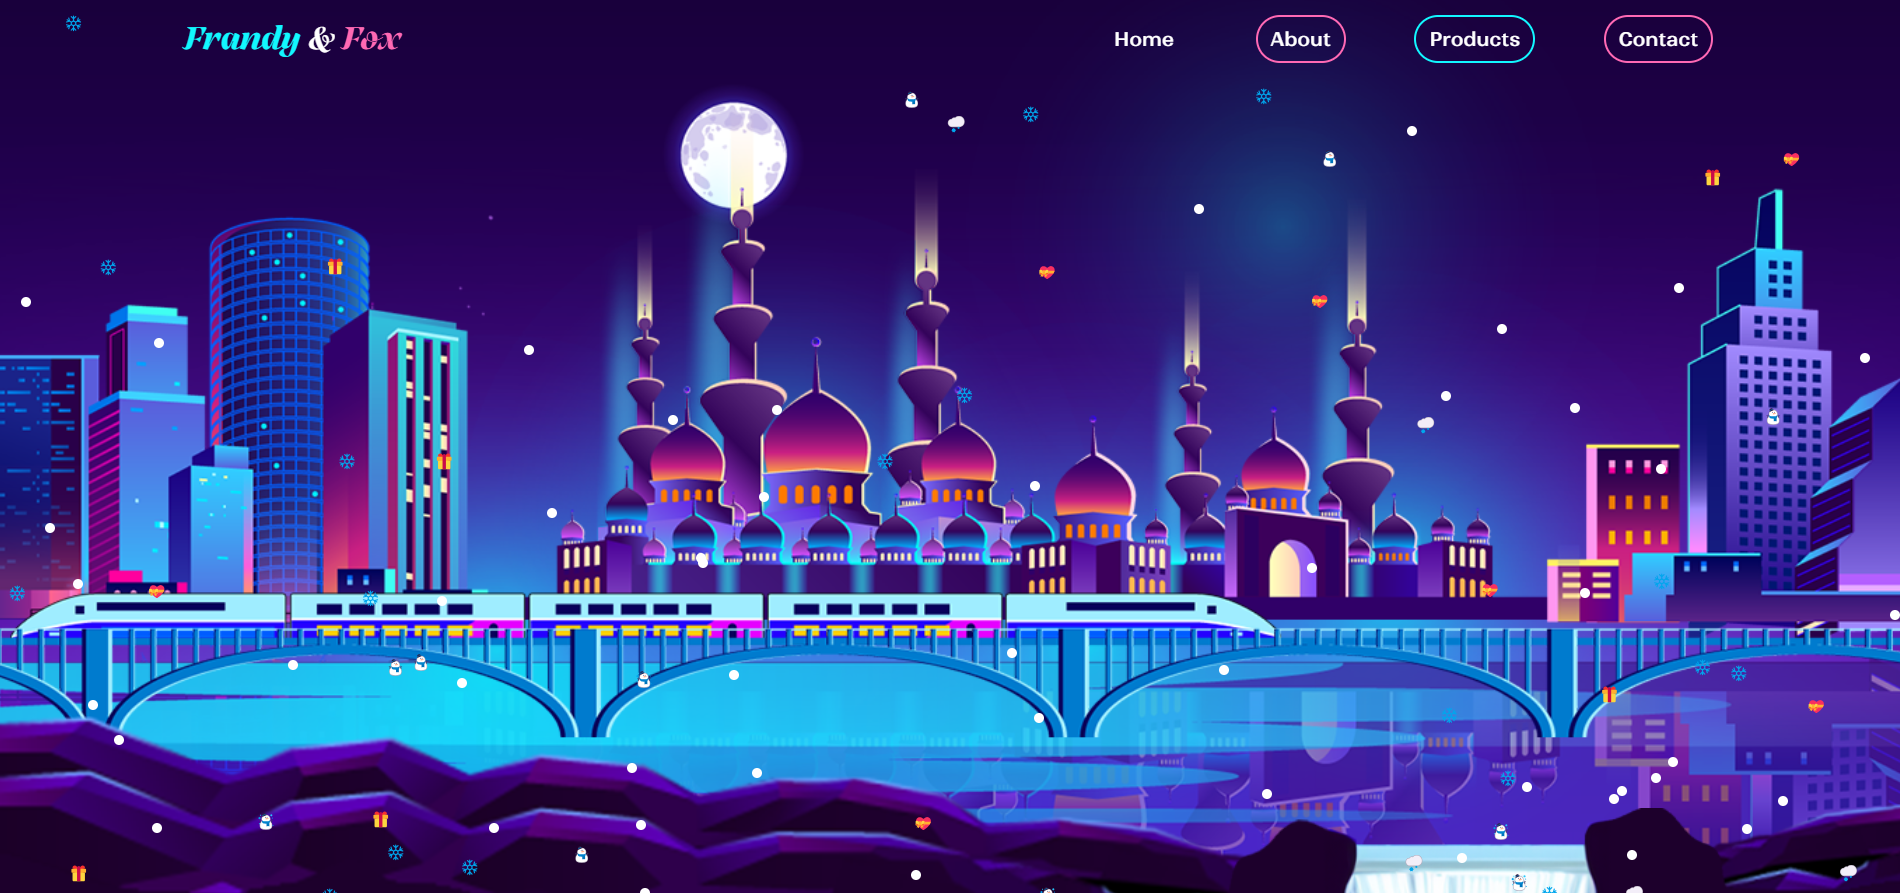
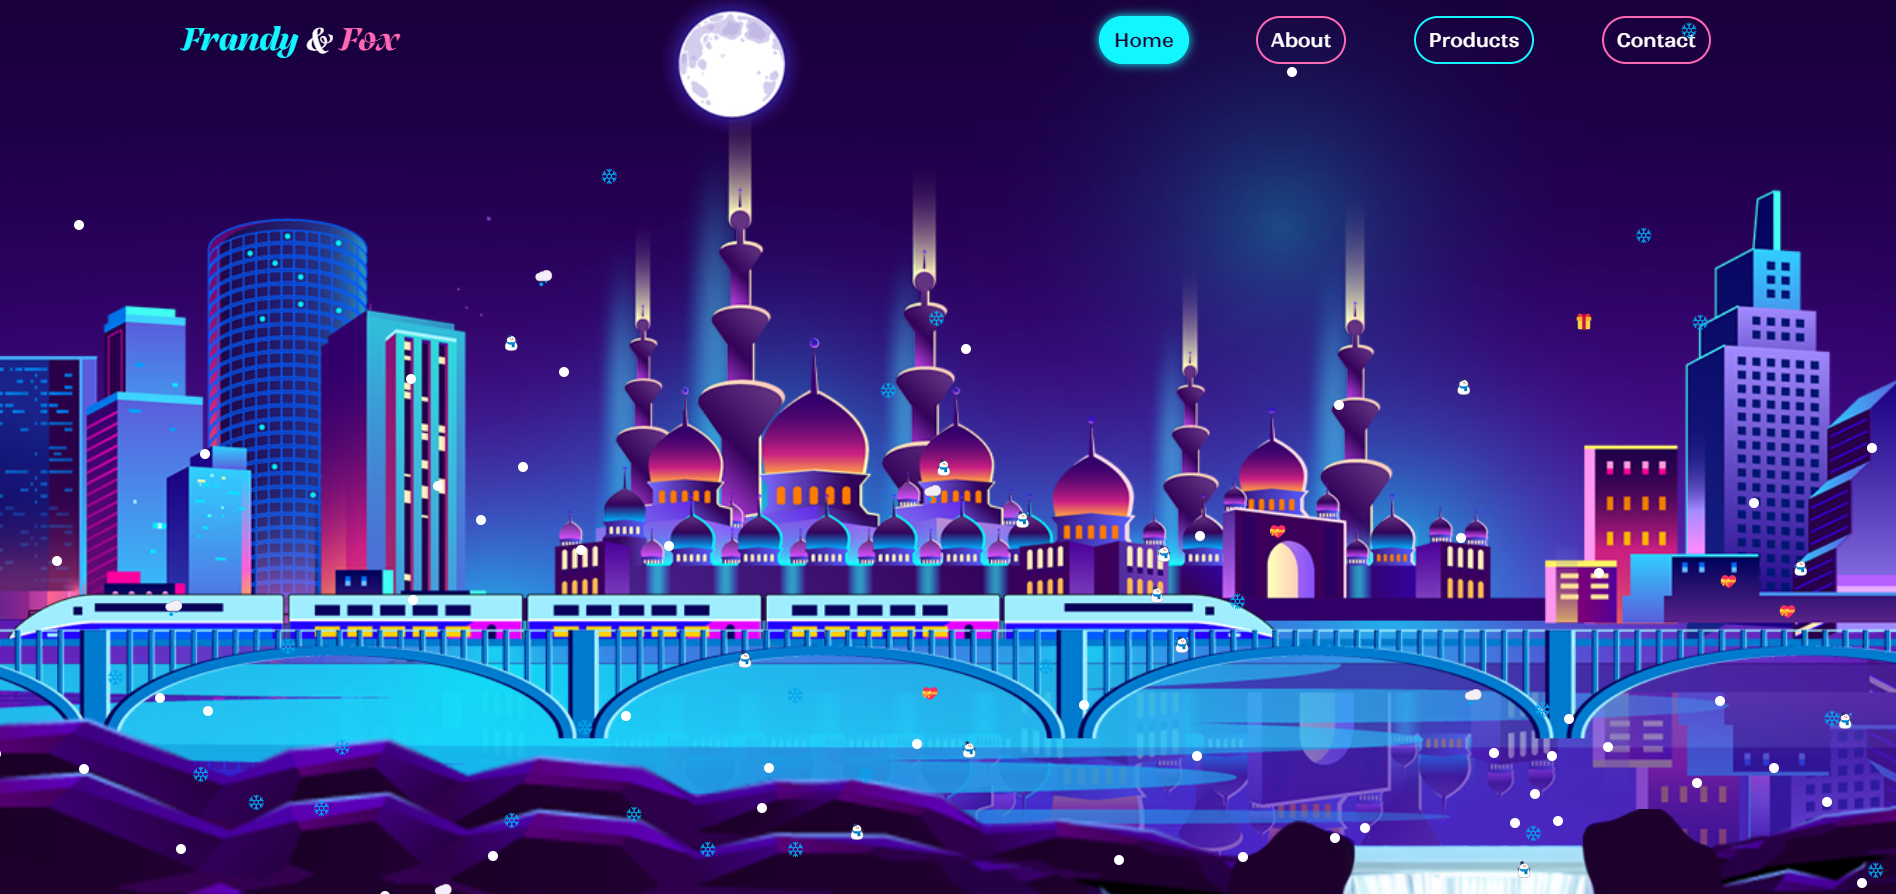
update README image

diff --git a/index.html b/index.html
@@ -12,7 +12,7 @@
     <header>
         <a href="#" class="logo">Frandy <span>&amp;</span> <span id="fox">Fox</span></a>
         <ul class="navlist">
-            <li><a href="#home" class="btn btn-clear">Home</a></li>
+            <li><a href="#home" class="btn btn-clear-blue">Home</a></li>
             <li><a href="#about" class="btn btn-hover-hotpink">About</a></li>
             <li><a href="#products" class="btn btn-hover-blue">Products</a></li>
             <li><a href="#contact" class="btn btn-hover-hotpink">Contact</a></li>
